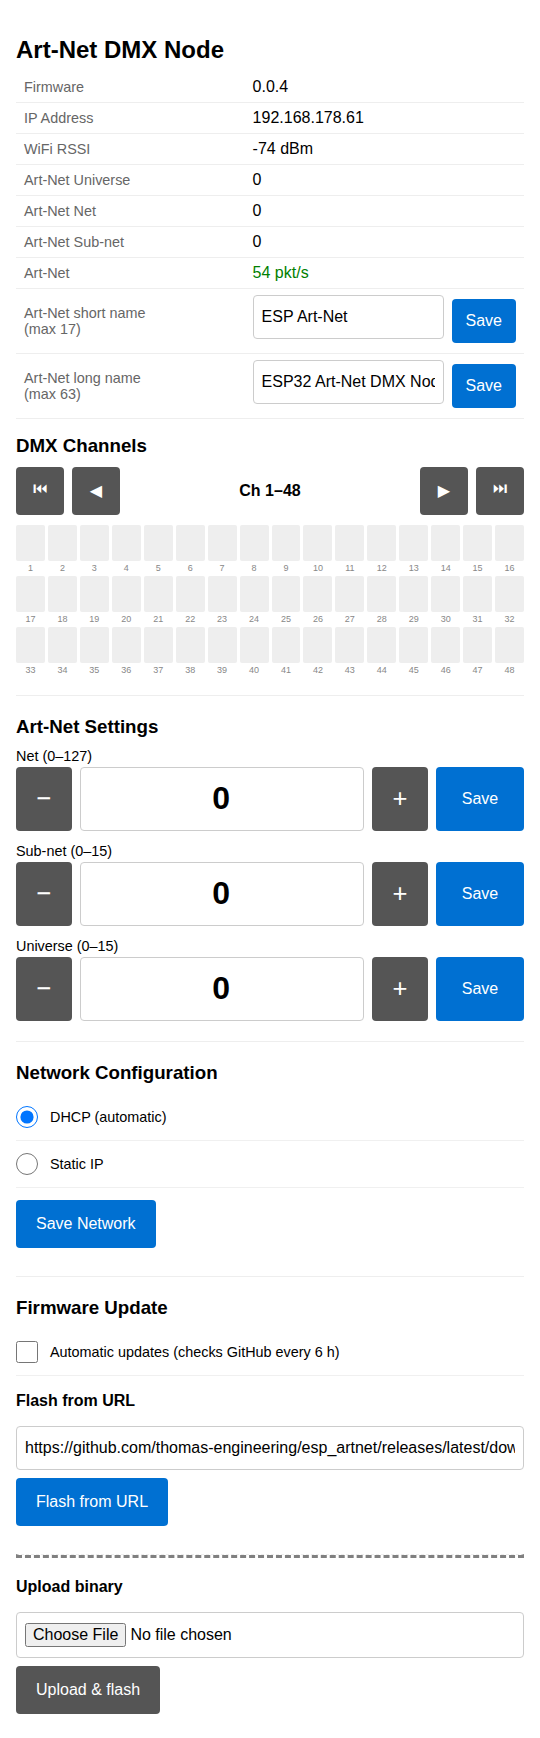
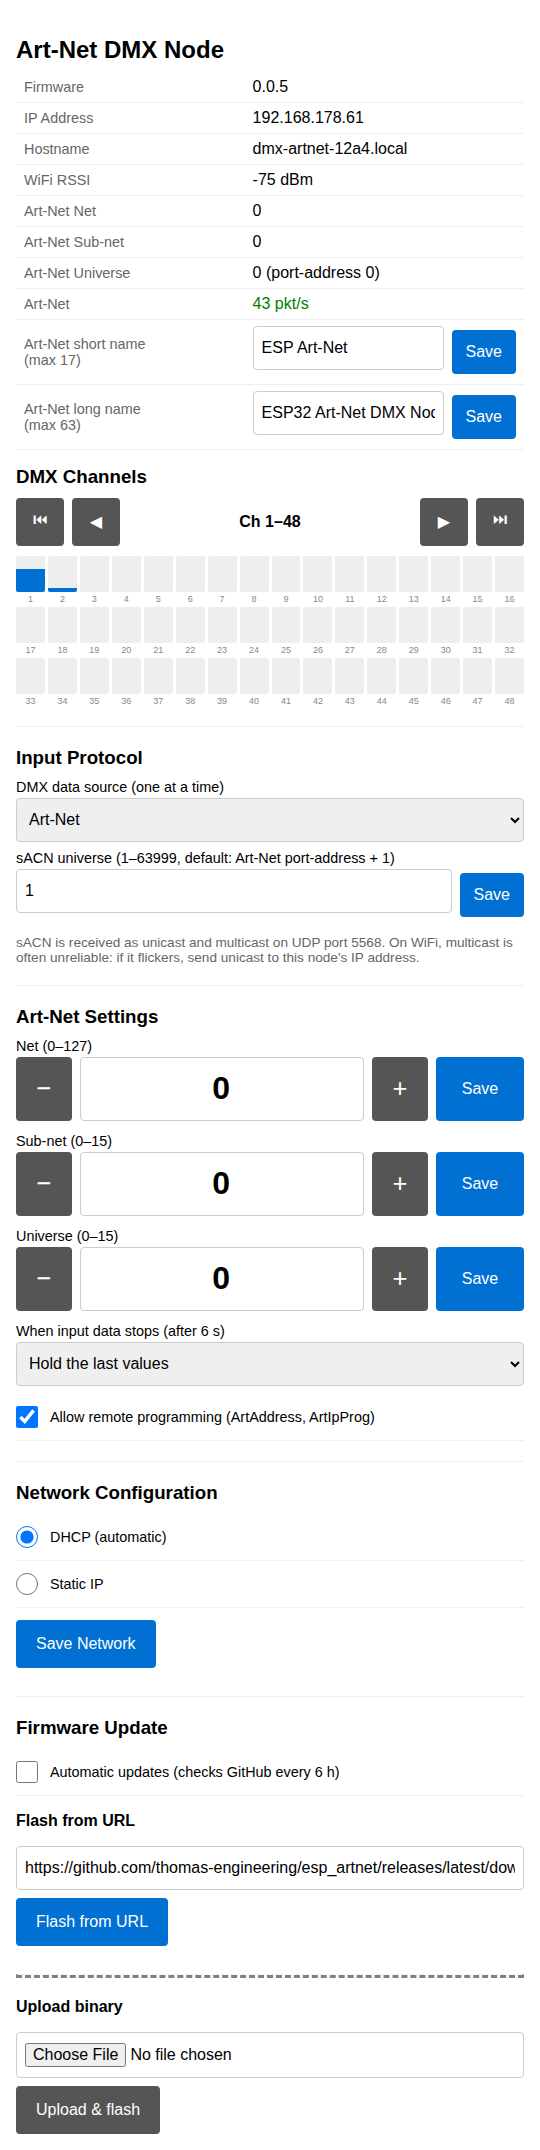
docs: document sACN input, WiFi/multicast notes, refresh screenshots

diff --git a/README.md b/README.md
@@ -1,10 +1,11 @@
-# ESP Art-Net — Art-Net to DMX Node
+# ESP Art-Net — Art-Net / sACN to DMX Node
 
 [![License: MIT](https://img.shields.io/badge/License-MIT-yellow.svg)](LICENSE)
 [![Built with Claude](https://img.shields.io/badge/Built%20with-Claude%20AI-blueviolet)](https://claude.ai)
 
-An ESP32-S3 firmware that receives Art-Net (UDP) packets over WiFi and
-forwards them as DMX-512 to a lighting fixture.
+An ESP32-S3 firmware that receives Art-Net or E1.31 (sACN) packets over WiFi
+and forwards them as DMX-512 to a lighting fixture. One input protocol is
+active at a time, selected in the web interface.
 
 ---
 
@@ -47,9 +48,11 @@ See `doc/pinout.jpg` for the board layout.
 
 - Line settings: 250 000 baud, 8 data bits, no parity, 2 stop bits (8N2).
 - The BREAK is generated by inverting the idle TX line (180 µs low), followed
-  by a 40 µs MARK AFTER BREAK — the same timing as the Arduino Conceptinetics
-  DMX master. The start code (0x00) is written straight into the UART TX FIFO
-  right after the MAB.
+  by a 40 µs MARK AFTER BREAK. The DMX512-A standard (ANSI E1.11) requires a
+  BREAK of at least 92 µs and a MARK AFTER BREAK of at least 12 µs, so both are
+  well within the limits (they are also accepted by receivers built for the
+  original, more lenient DMX512 timing). The start code (0x00) is written
+  straight into the UART TX FIFO right after the MAB.
 - Every frame is a full 513 slots (start code + 512 channels), sent back to
   back at about 43 frames per second.
 - GPIO 1 (DE + RE) is set HIGH once at start-up and never toggled: the node
@@ -200,7 +203,7 @@ Once connected, the node serves a status and configuration page at
 ### Status
 
 The top of the page auto-refreshes every 2 seconds and shows firmware
-version, IP address, WiFi RSSI, the Art-Net **Net**, **Sub-net** and
+version, IP address, hostname, WiFi RSSI, the Art-Net **Net**, **Sub-net** and
 **Universe** (with the resulting 15-bit port-address), incoming packet
 rate, and a live bar graph for DMX channels 1–48 (three rows of 16, paged with
 the arrow buttons).
@@ -212,6 +215,13 @@ and are stored in NVS. Saving an empty field resets that name to its default;
 non-ASCII characters are replaced by `?`. The fields follow changes made
 remotely, unless you have unsaved edits in them.
 
+### Input Protocol
+
+**DMX data source** selects Art-Net or sACN (E1.31) and is applied immediately.
+Below it, **sACN universe** (1–63999) sets the universe used in sACN mode. While
+sACN is active, the status table shows the sACN packet rate and the number of
+sources currently sending. See [E1.31 (sACN) input](#e131-sacn-input).
+
 ### Art-Net Settings
 
 Three large numeric inputs with **−** / **+** buttons set the Art-Net
@@ -220,7 +230,7 @@ and **Universe** (0–15). Values outside these ranges are clamped, and each
 **Save** button stores the complete address (`net × 256 + sub-net × 16 +
 universe`, 0–32767).  It applies immediately — no reboot required.  The WiFi setup portal has the same three fields.
 
-Below them, **When Art-Net data stops** selects the failsafe behaviour (hold the
+Below them, **When input data stops** selects the failsafe behaviour (hold the
 last values, all channels off, all channels full); it is saved as soon as you
 change it.
 
@@ -284,7 +294,8 @@ inactive OTA slot, sets it as boot target, and restarts — all over HTTP.
 Once connected to your WiFi network the node listens for **Art-Net ArtDMX**
 packets on **UDP port 6454**.  The universe is configured on the provisioning
 page (default 0 — the first Art-Net universe).  Received channel data is
-forwarded as DMX-512 at ~40 Hz on the RS-485 output.
+forwarded as DMX-512 at ~40 Hz on the RS-485 output. Alternatively the node
+can receive **E1.31 (sACN)** on UDP port 5568, see [E1.31 (sACN) input](#e131-sacn-input).
 
 The DMX output starts right at power-on, before WiFi is connected and also in
 the setup portal, so the bus is always driven (all channels 0 until Art-Net data
@@ -305,6 +316,51 @@ packets low.
   values (default), goes to all 0, or to all 255. Select it in the web interface
   or with ArtAddress; the setting is stored in NVS.
 
+### E1.31 (sACN) input
+
+Select **sACN (E1.31)** under *Input Protocol* in the web interface to receive
+E1.31 instead of Art-Net (the setting is stored in NVS; the default is
+Art-Net). Only one input protocol is active at a time: in sACN mode ArtDmx is
+ignored, while ArtPoll, ArtAddress and ArtIpProg still work, so the node stays
+discoverable and configurable.
+
+- **Port and universe:** UDP port **5568**, universe 1–63999 (one universe per
+  node). The default is the Art-Net port-address + 1 (Art-Net counts from 0,
+  sACN from 1); entering a universe in the web interface overrides it.
+- **Packets:** E1.31 data packets with the NULL start code (0x00) are
+  processed; other start codes (e.g. RDM), preview data, priorities above 200
+  and malformed packets are ignored. Packets from a source that arrive out of
+  order (sequence number 0 to 19 behind the last one) are dropped.
+- **Sources:** sources are told apart by their CID. Up to **two** sources are
+  kept. The one with the highest priority wins; sources of equal priority are
+  merged HTP (or LTP, if selected with ArtAddress). A third source is ignored
+  unless it has a higher priority than the lowest existing one. A source that
+  sends the Stream_Terminated flag is removed at once; one that is silent for
+  2.5 s is dropped.
+- **Failsafe:** as for Art-Net: after 6 s without data the output holds, goes to
+  0 or to 255, as selected.
+- **Not supported:** synchronisation packets (data is output immediately) and
+  universe discovery announcements.
+
+**WiFi and multicast.** sACN senders can reach the node in two ways, and the
+choice matters on WiFi:
+
+- **Multicast** (`239.255.<universe high byte>.<universe low byte>`) is what
+  sACN software uses by default. The node joins the group via IGMP. Over WiFi
+  this is the weak point of sACN: many access points send multicast at a very
+  low data rate, only deliver it at the DTIM interval, drop it, or block the
+  group through IGMP snooping. Symptoms are flicker, added latency, or no data
+  at all.
+- **Unicast** (packets sent directly to the node's IP on port 5568) avoids all of
+  this and is the **recommended setting on WiFi**. Most sACN software has a
+  per-universe "unicast" option; enter the node's IP address there.
+
+The node accepts both on the same port. If multicast is unreliable on your
+network, switch the sender to unicast; if you must use multicast, disable
+multicast-to-broadcast conversion and enable IGMP snooping/querier support on
+the access point and switches, or use a wired segment with a dedicated AP.
+After a WiFi reconnect the node re-joins the multicast group automatically.
+
 ### Status LEDs
 
 The board has two onboard LEDs that indicate the current state:
@@ -313,8 +369,8 @@ The board has two onboard LEDs that indicate the current state:
 |---|---|---|
 | Provisioning — SoftAP active | Blue, 1 Hz blink | Blinks with it |
 | Connecting to WiFi | Yellow, 5 Hz blink | Blinks with it |
-| Connected — Art-Net packets arriving | Green, solid | Off |
-| Connected — no Art-Net data for > 3 s | Amber, solid | Off |
+| Connected — Art-Net / sACN packets arriving | Green, solid | Off |
+| Connected — no Art-Net / sACN data for > 3 s | Amber, solid | Off |
 
 ### OTA updates
 
@@ -343,8 +399,8 @@ firmware at the next reset (rollback).
 
 ## Python test client
 
-A minimal tkinter GUI is provided in `python_test_client/` to send Art-Net directly
-to the node.  It is designed around the **Showtec LED Par 64 Short Pro RGB
+A minimal tkinter GUI is provided in `python_test_client/` to send Art-Net or
+sACN (E1.31) directly to the node.  It is designed around the **Showtec LED Par 64 Short Pro RGB
 (order 42427)** — see `doc/42427_Anleitung 42427 Englisch.pdf` for the full
 lamp manual.
 
@@ -369,6 +425,21 @@ go to `/tmp/esp_artnet_gui.log`):
 ```bash
 ./run_test_client.sh
 ```
+
+The script starts only one instance. `./run_test_client.sh --new` starts an
+additional one (with its own log file), for example to test the merging of two
+sources.
+
+### Sending sACN (E1.31)
+
+The **Protocol** row of the connection frame switches the test between
+**Art-Net** and **sACN (E1.31)**. In sACN mode the frames go to UDP port 5568 of
+the target as unicast, or to the universe's multicast group
+`239.255.<hi>.<lo>` when **Multicast** is ticked. The **sACN universe**
+(1–63999) follows the Art-Net port-address + 1 until you change it. The status
+line shows the destination and rate, and closing the GUI or switching the
+protocol sends a Stream_Terminated packet. The node itself has to be set to
+*sACN (E1.31)* in its web interface. Scan and Node control keep using Art-Net.
 
 ### Discovering nodes (Scan)
 
@@ -453,11 +524,11 @@ universe follows an address change so the lamp keeps being controlled.
 
 | Section | Controls |
 |---|---|
-| **Connection** | Target hostname or IP (default `dmx-artnet-12a4.local`, change it to your node's hostname) with **Scan** and **Node control** buttons, Art-Net **net** (0–127), **sub-net** (0–15) and **universe** (0–15) |
+| **Connection** | Target hostname or IP (default `dmx-artnet-12a4.local`, change it to your node's hostname) with **Scan** and **Node control** buttons, Art-Net port-address (**net** 0–127, **sub-net** 0–15, **universe** 0–15), **Protocol** Art-Net / sACN (E1.31) with the sACN universe (1–63999) and a **Multicast** option |
 | **Lamp** | DMX start address (1–507), 3 ch / 6 ch mode, **BLACKOUT** toggle, **✨ Light show** and **Police car** toggles |
 | **Color** | Red / Green / Blue sliders (Ch 1–3) + live color preview swatch |
 | **6-Channel Settings** | Ch 4 macro, Ch 6 program with one-click preset buttons, Ch 5 strobe/speed/sensitivity (label changes with Ch 6 value) |
-| **Status bar** | Resolved IP, packets per second, error count |
+| **Status bar** | Destination (resolved IP or multicast group), sACN universe when sACN is selected, packets per second, error count |
 
 The background thread sends at **44 Hz** continuously — no explicit "Send"
 button is needed; every slider change takes effect within one frame.
@@ -594,8 +665,10 @@ Each channel is a single unsigned byte (0–255).  Byte order is not applicable.
 Bit rate:  250 000 baud
 Frame:     1 start bit, 8 data bits, 2 stop bits  (8N2)
 
-A DMX frame starts with a BREAK — a low level held for ≥ 88 µs —
-followed by a MARK AFTER BREAK (MAB, ≥ 8 µs high), then:
+A DMX frame starts with a BREAK — a low level held for ≥ 92 µs —
+followed by a MARK AFTER BREAK (MAB, ≥ 12 µs high), then:
+(DMX512-A transmitter minimums; receivers must accept ≥ 88 µs and ≥ 8 µs.
+ This node sends 180 µs / 40 µs.)
 
   Byte 0:  Start Code   (0x00 for standard dimmer / color data)
   Byte 1:  Channel 1 value  (0–255)
@@ -622,6 +695,8 @@ esp_artnet/
 │   │                       NVS-backed universe + network config (DHCP/static IP)
 │   ├── artnet.c         — UDP receiver, Art-Net parser, runtime universe change
 │   ├── artnet_core.c    — hardware-independent Art-Net logic (merge, sequence, failsafe), host-tested
+│   ├── sacn.c           — E1.31 receiver task (port 5568, multicast join), input mode + universe in NVS
+│   ├── sacn_core.c      — hardware-independent E1.31 logic (parser, sequence, priority, merge), host-tested
 │   ├── artnet_poll.c    — builds the ArtPollReply, stores the node names
 │   ├── artnet_ip.c      — ArtIpProg / ArtIpProgReply (remote IP configuration)
 │   ├── dmx.c            — UART1 DMX-512 transmitter
@@ -646,8 +721,10 @@ esp_artnet/
 ├── run_test_client.sh   — starts the Python test GUI in the background
 ├── python_test_client/
 │   ├── artnet.py        — Art-Net UDP sender, ArtPoll / ArtAddress / ArtIpProg client (stdlib only)
+│   ├── sacn.py          — E1.31 (sACN) packet builder / parser / UDP sender (stdlib only)
 │   ├── gui.py           — tkinter GUI for Showtec LED Par 64 (42427)
-│   ├── test_artnet.py   — unit tests for the packet builders / parsers
+│   ├── test_artnet.py   — unit tests for the Art-Net packet builders / parsers
+│   ├── test_sacn.py     — unit tests for the sACN packet builder / sender
 │   └── requirements.txt
 ├── doc/
 │   ├── screenshot_webui.png
@@ -673,8 +750,8 @@ cd python_test_client
 python3 -m unittest -v
 ```
 
-runs the unit tests of the Art-Net test client (packet builders and parsers; no
-network or hardware needed).
+runs the unit tests of the test client (Art-Net and sACN packet builders and
+parsers; no network or hardware needed).
 
 ```bash
 make -C test
@@ -685,7 +762,9 @@ with AddressSanitizer/UBSan). They cover the hardware-independent code that was
 split out of `artnet.c` into `artnet_core.c` (ArtDmx parsing and length
 handling, sequence check, two-source HTP/LTP merge, AcCancelMerge, failsafe
 timing, targeted ArtPoll, ArtAddress port-address) and the IPv4 / static-IP
-validation in `net_util.c`. Code that needs ESP-IDF (sockets, WiFi, NVS, HTTP
+validation in `net_util.c`, plus the E1.31 logic in `sacn_core.c` (packet
+validation, sequence window, priority arbitration, HTP/LTP merge, terminate
+flag, source timeout, multicast address). Code that needs ESP-IDF (sockets, WiFi, NVS, HTTP
 handlers) is not covered; it is tested on the device.
 
 All tests and two firmware builds run on GitHub for every push and pull request
@@ -694,6 +773,11 @@ All tests and two firmware builds run on GitHub for every push and pull request
 ## Development
 
 This project was coded with [Claude](https://claude.ai) (Anthropic AI) acting as the primary programmer.
+
+The DMX output timing (BREAK / MARK AFTER BREAK) was developed and verified
+against a working Arduino DMX master built on the Conceptinetics DMX library.
+It served as a reference during development; no code from it is used in this
+project.
 
 ## Trademarks
 
